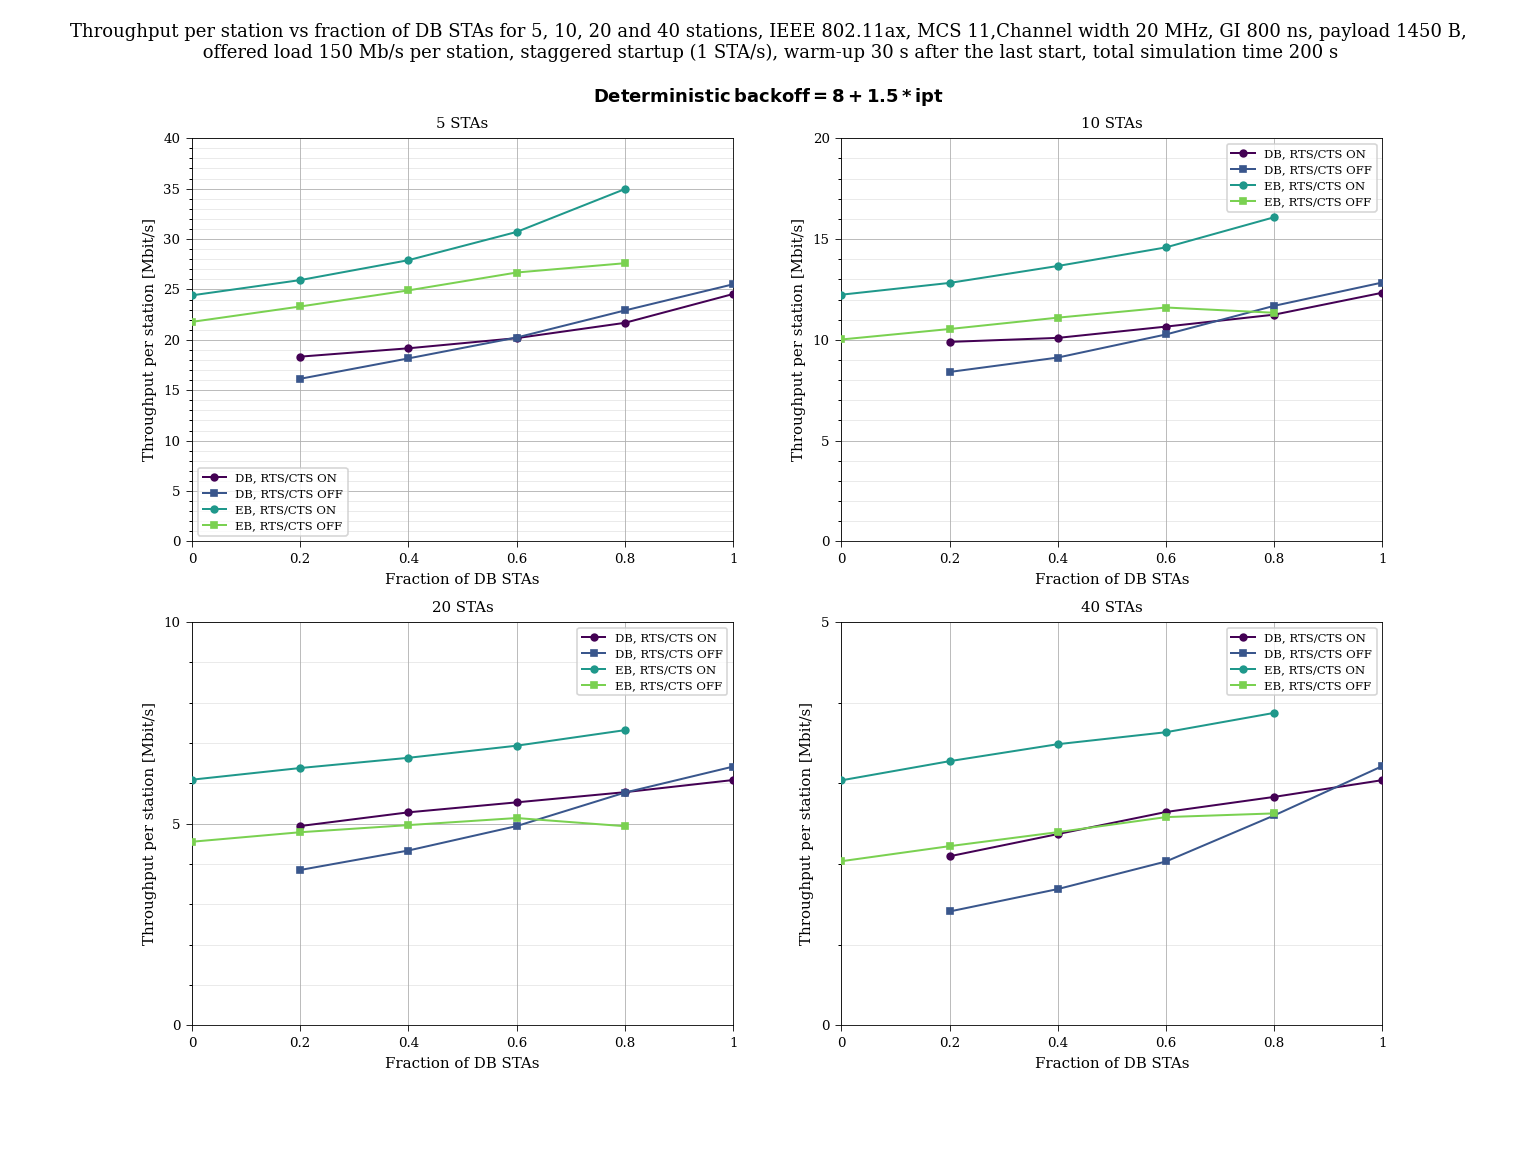
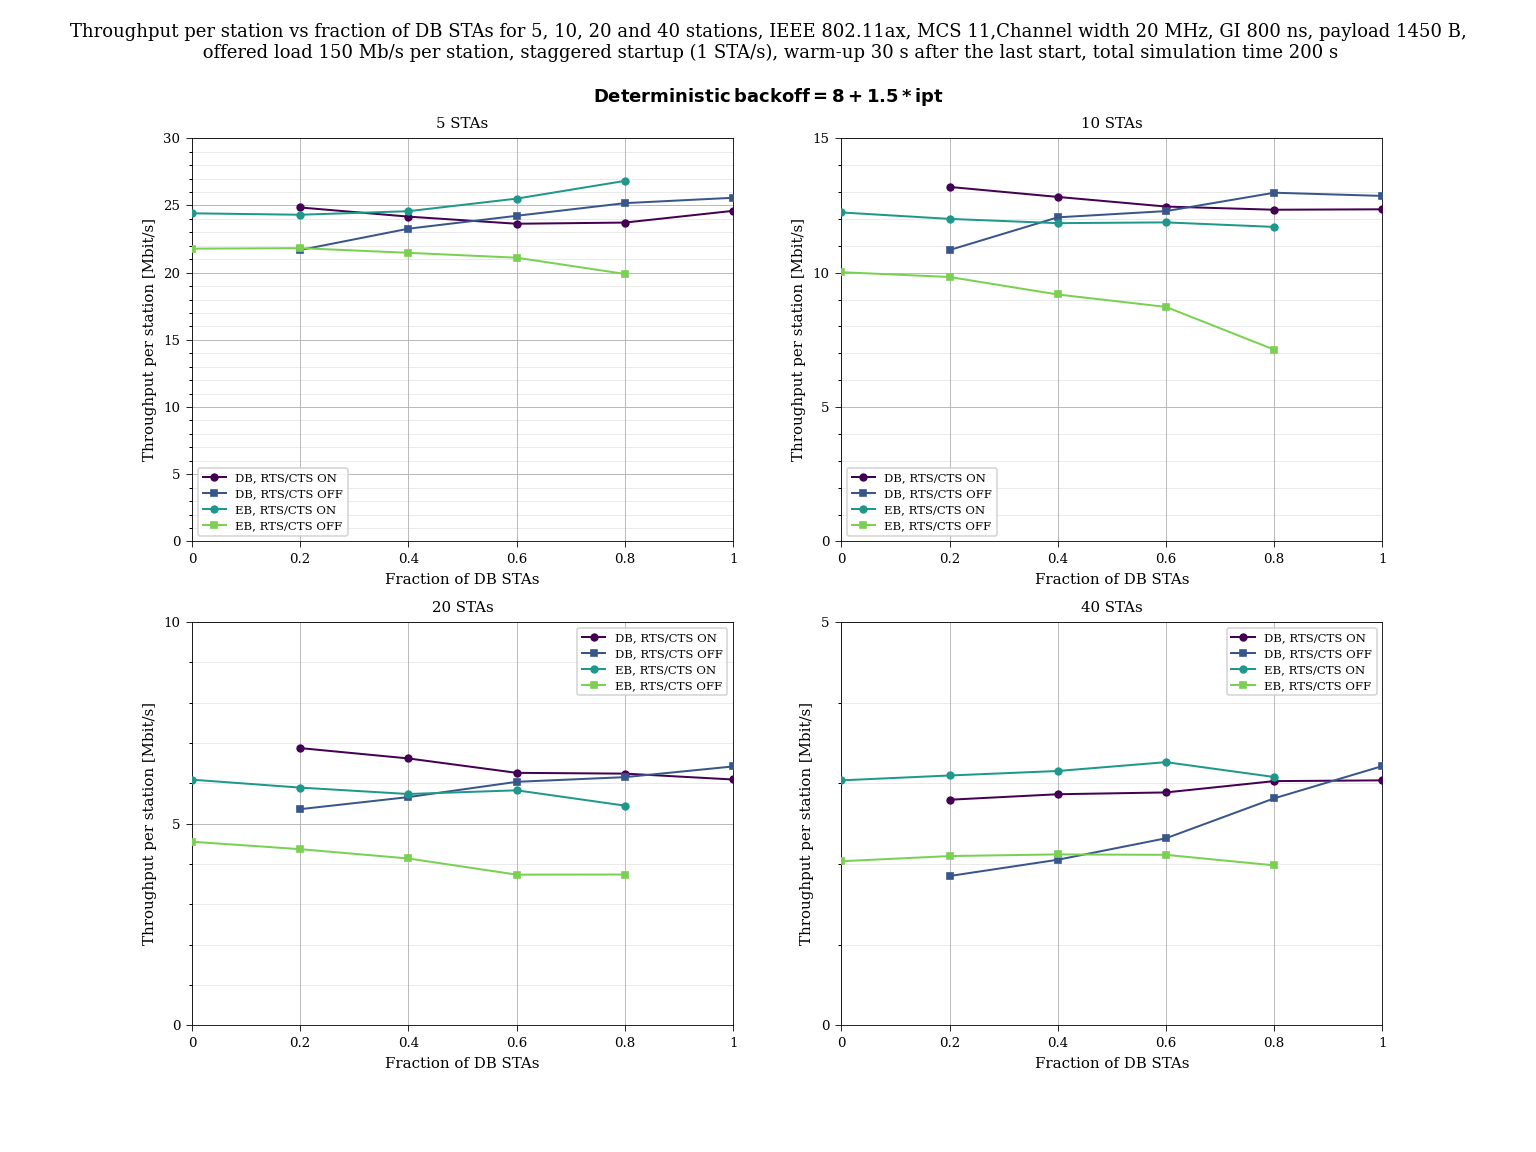
7+115ipt

diff --git a/plots/CCDF_combination.py b/plots/CCDF_combination.py
@@ -7,10 +7,10 @@ from plot_config import apply_plot_style, get_cmap, SUBPLOT_WIDTH, SUBPLOT_HEIGH
 
 apply_plot_style()
 
-DATA_DIR = Path("../data/8_15ipt/txop_28_03_2026")
+DATA_DIR = Path("../data/10_15ipt/txop_1_04_2026")
 TOTAL_STA = 40
 GAP_SECONDS = 1
-WARMUP_SECONDS = 30
+WARMUP_SECONDS =50
 X_UNIT = "ms"
 X_LIM = (0, 7000) # 5 - 2000; 10 - 3500; 20 - 6000; 40 - 14000 
 
@@ -160,8 +160,8 @@ for ax, (n_db, n_eb) in zip(axes, configs):
 
 fig.suptitle(
     "CCDF of channel access delay for "f"{TOTAL_STA}" " stations IEEE 802.11ax, MCS 11, channel width 20 MHz, GI 800 ns, payload 1450 B,\n"
-    "offered load 150 Mb/s per station, staggered startup (1 STA/s), warm-up 30 s after the last start, total simulation time 200 s, \n"
-    "\n$\\mathbf{Deterministic \\: backoff = 8 + 1.5*ipt}$"
+    "offered load 150 Mb/s per station, staggered startup (1 STA/s), warm-up 50 s after the last start, total simulation time 200 s, \n"
+    "\n$\\mathbf{Deterministic \\: backoff = 10 + 1.5*ipt}$"
 )
 
 

diff --git a/plots/throughput_ratio_plot.py b/plots/throughput_ratio_plot.py
@@ -7,7 +7,7 @@ from plot_config import apply_plot_style, get_cmap, SUBPLOT_WIDTH, SUBPLOT_HEIGH
 
 apply_plot_style()
 
-df = pd.read_csv("../data/10_15ipt/throughput-db-stations-ratio_1_04.csv")
+df = pd.read_csv("../data/7_15ipt/througput_7_15_ipt.csv")
 
 
 df["enableRts"] = df["enableRts"].astype(str).str.strip().map({
